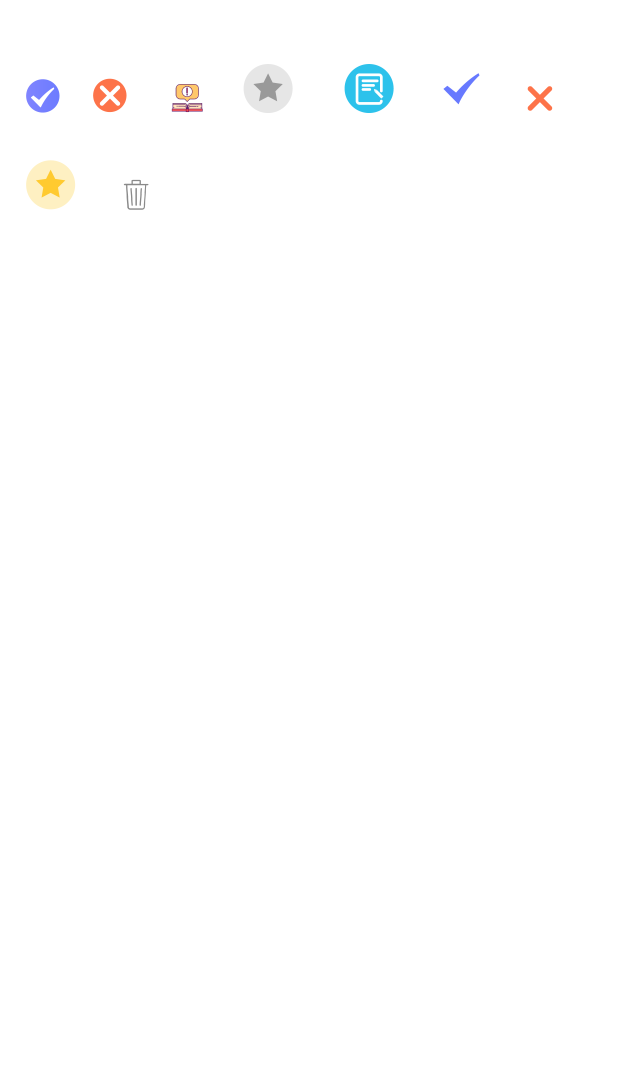
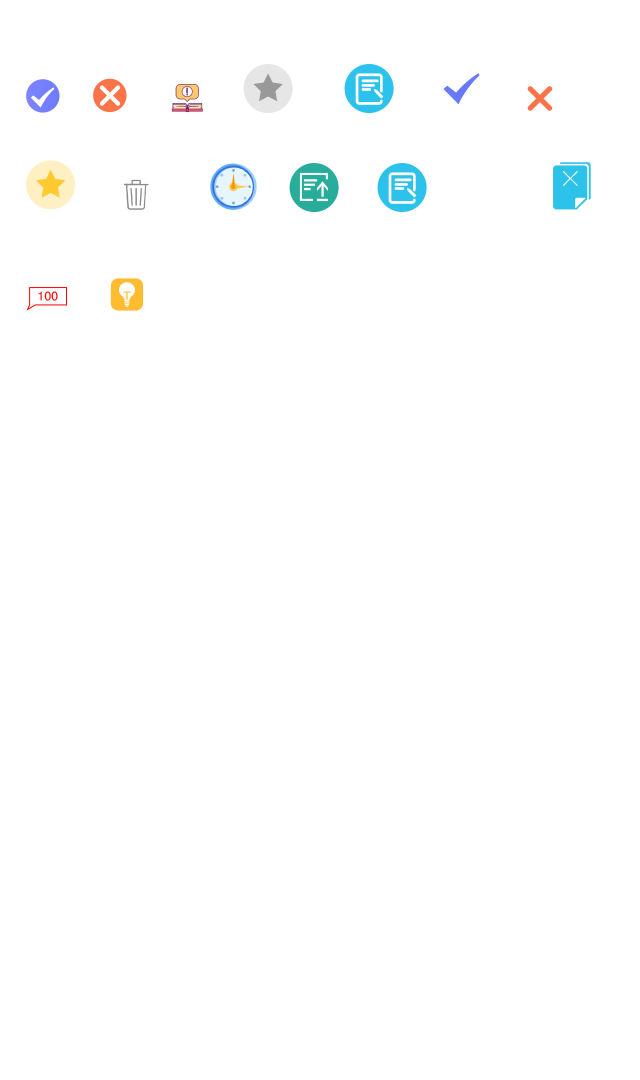
添加新页面

diff --git a/src/page/jsz.vue b/src/page/jsz.vue
@@ -10,10 +10,16 @@
 	   
 
         
-        <section class="yj4 bgff  pt20 pm50 pr ">
+        <section class="yj4 bgff  pt20 pm50 pr sdf_deeert">
             <span class="sd_jh_ddff fz14 cz">
                 1/50
             </span>
+            
+            <section class="sd_jh_deerrt">
+                <i class="f_i time_icons"></i>
+                <span>01：59：23</span>
+            </section>
+            
             <section class="pd">
             <p class="fz13 z6 pm15">
                 <span class="danh_rtt">单选</span>
@@ -22,58 +28,17 @@
             
             <section v-for="(sd,idx) in timu_d" class="fz13 z6 sdf_ddrt">
                 <span class="ls df_xddrx f_b">
-                   <span v-if="idx!=0&&idx!=3"> {{sd.xz}}</span>
-                    <i class="f_i gous_ddr" v-if="idx==0"></i>
-                    <i class="f_i gous_ddr ab" v-if="idx==3"></i>
+                   <span > {{sd.xz}}</span>
+                   
                 </span>
                 <span class="">{{sd.timu}}</span>
             </section>
             </section>
             
-            <van-row class="cen mt40">
-                <van-col span="12">
-                    <section class="df_dff_rert">
-                        正确答案 
-                    </section>
-                </van-col>
-                <van-col span="12">
-                     <section class="df_dff_rert ab">
-                        答错率  
-                    </section>
-                </van-col>
-            </van-row>
-            
-                  <van-row class="cen ">
-                <van-col span="12">
-                    <section class="dsd_jh_dr">
-                        A 
-                    </section>
-                </van-col>
-                <van-col span="12">
-                    <section class="dsd_jh_dr ab">
-                        60.8%
-                    </section>
-                </van-col>
-            </van-row>
-            
-            <section class="pd mt20">
-                <i class="f_i jiexi_dt"></i>
-                <span class="fz14 ls ml10">  解析</span>
-            </section>
-            
-            <section class="pd pt10">
-            <section v-for="sd in jiexi" class="z6 fz13 df_hj_dert">
-                <span class="sd_jh_ddfg fl">{{sd.xz}}</span>
-                <section class="ov">
-                    {{sd.neirong}}
-                </section>
-                <p class="qc"></p>
-            </section>
-                
-                
-                
-                </section>
-            
+         
+               
+     
+         
             
             
             
@@ -83,9 +48,9 @@
     
            <van-row>
                <van-col span="15">
-                     <span @click="sd_sdff?sd_sdff='':sd_sdff='act'">
-                <i class="f_i shoyh_icon " :class="sd_sdff"></i>
-                <span class="fz15 z6 ml5">收藏</span>
+                     <span >
+                <i class="f_i dsfsd_deert " ></i>
+                <span class="fz15 z6 ml5">交卷</span>
             </span>
             
             
@@ -117,7 +82,7 @@
 
            <van-popup v-model="show_er" position="bottom" >
                    
-        <datika @close_btn="show_er=false"></datika>
+        <datika type="1" @close_btn="show_er=false"> </datika>
         
         
                 </van-popup>
@@ -176,6 +141,32 @@
 
 </script>
 <style scoped>
+    .sd_jh_deerrt{
+        position: absolute;
+        right: -5px;
+        top: -20px;
+        font-size: 12px;
+        color: #808080;
+        background: #fff;
+        border-radius: 20px;
+        height: 28px;
+        line-height: 28px;
+            box-shadow: 0 0px 4px rgba(0,0,0,.2);
+        padding-right: 10px;
+        transform: scale(0.9)
+    }
+    .time_icons{
+        width: 27px;
+        height: 28px;
+        background-position: -118px -91px;
+        margin-right: 4px;
+        position: relative;
+        top: -1px;
+    }
+    
+    .sdf_deeert{
+        min-height: 400px
+    }
     .sd_jh_ddff {
         background: #2FC2EB;
         color: #fff;
@@ -291,6 +282,12 @@
 
     .dsf_derrt {
         padding-top: 30px;
+    }
+    
+    .dsfsd_deert{
+        width: 29px;
+        height: 29px;
+        background-position: -162px -91px
     }
 
 </style>

diff --git a/src/page/moni_jc.vue b/src/page/moni_jc.vue
@@ -1,0 +1,90 @@
+<template>
+<div >
+
+        <section class="pder pt20">
+                <section class="yj4 bgff pd pt40 pm50">
+                        <p class="cen">
+                        <img src="../assets/img/user_tx.png" class="us_deert">
+                        </p> 
+                    <section class="mt40">
+                    <p class="sdf_deert fz14">
+                    
+                        竞赛时间：100 分钟 <br>
+
+合格标准：90 分<br>
+
+出题规则：按“亿学杯”竞赛出题规则
+                    </p>
+                        
+                    <p class="sdf_deert fz12 mt20 z9">
+        温馨提示：模拟竞赛不能修改答案，每做错1道题扣2分，
+合格标准为90分。
+                </p>
+                        
+                          <p class="sdf_deert fz12 mt10 z9">
+       竞赛无详解，当前试题可跳过，对错实时判定。
+                              
+                              <span class="f_b sdf_deerx">
+            <van-switch v-model="checked" size="20px" />
+                    </span>
+                </p>
+                        
+                </section>
+                    
+                    <p class="mt40 fg_jjh_deert">
+                        <van-button type="primary" @tap="sd_deert">立即参赛</van-button>
+                    </p>
+                    
+                    
+                </section>
+        </section>
+    
+</div>
+</template>
+<script>
+    export default {
+        data() {
+            return {
+                checked:false
+            }
+        },
+        components: {
+
+        },
+        methods: {
+            sd_deert(){
+                console.log(2);
+            }
+        },
+        mounted() {
+
+        },
+    }
+
+</script>
+<style scoped>
+    .us_deert{
+        width: 114px;
+        height: 114px;
+    }
+    .sdf_deert{
+        color: #5b64fd;
+        font-size: 14px;
+        line-height: 24px;
+    }
+    .sdf_deerx{
+        position: relative;
+        top: 6px;
+    }
+    .fg_jjh_deert{
+        width: 210px;
+        margin: auto;
+        
+    }
+    .fg_jjh_deert button{
+        background: #6378FF;
+        border: 1px solid #6378FF;
+        width: 100%;
+        border-radius: 20px;
+    }
+</style>

diff --git a/src/components/datika.vue b/src/components/datika.vue
@@ -5,10 +5,15 @@
 	
        <p class="fz15 sd_deerrtx pder">
            答题卡
+           <i class="f_i close_iconse" @click="$emit('close_btn')"></i>
         </p>
         
         <section class="box pder dsf_jh_deet">
-                <section class="box_b">
+                <section class="box_b" v-if="type==1">
+                    <i class="f_i shg_dert ab"></i>
+                    <span class="fz14 ml5">交卷</span>
+                </section>
+                <section class="box_b" v-if="type!=1">
                     <i class="f_i shg_dert"></i>
                     <span class="fz14 ml5">已收藏</span>
                 </section>
@@ -48,6 +53,9 @@
 </template>
 <script>
     export default {
+        props: {
+            type: ""
+        },
         data() {
             return {
 
@@ -86,6 +94,9 @@
         height: 29px;
         background-position: -14px -90px;
     }
+    .shg_dert.ab{
+              background-position: -162px -91px
+    }
 
     .dsf_jh_deet {
         line-height: 40px;
@@ -122,4 +133,12 @@
         padding-top: 8px;
     }
 
+    .close_iconse{
+        width: 25px;
+        height: 26px;
+        background-position: -260px -94px;
+        position: absolute;
+        right: 10px;
+        top: 7px;
+    }
 </style>

diff --git a/src/router.js b/src/router.js
@@ -2,6 +2,8 @@ import Vue from 'vue'
 import Router from 'vue-router'
 import index from './page/index.vue'
 import lianxi from './page/lianxi.vue'
+import moni_jc from './page/moni_jc.vue'
+import jsz from './page/jsz.vue'
 Vue.use(Router)
 
 export default new Router({
@@ -20,6 +22,22 @@ export default new Router({
             component: lianxi,
             meta: {
                 title: '随机练习'
+            }
+
+    }, {
+            path: '/moni_jc',
+            name: 'moni_jc',
+            component: moni_jc,
+            meta: {
+                title: '模拟竞赛'
+            }
+
+    }, {
+            path: '/jsz',
+            name: 'jsz',
+            component: jsz,
+            meta: {
+                title: '竞赛中'
             }
 
     }
